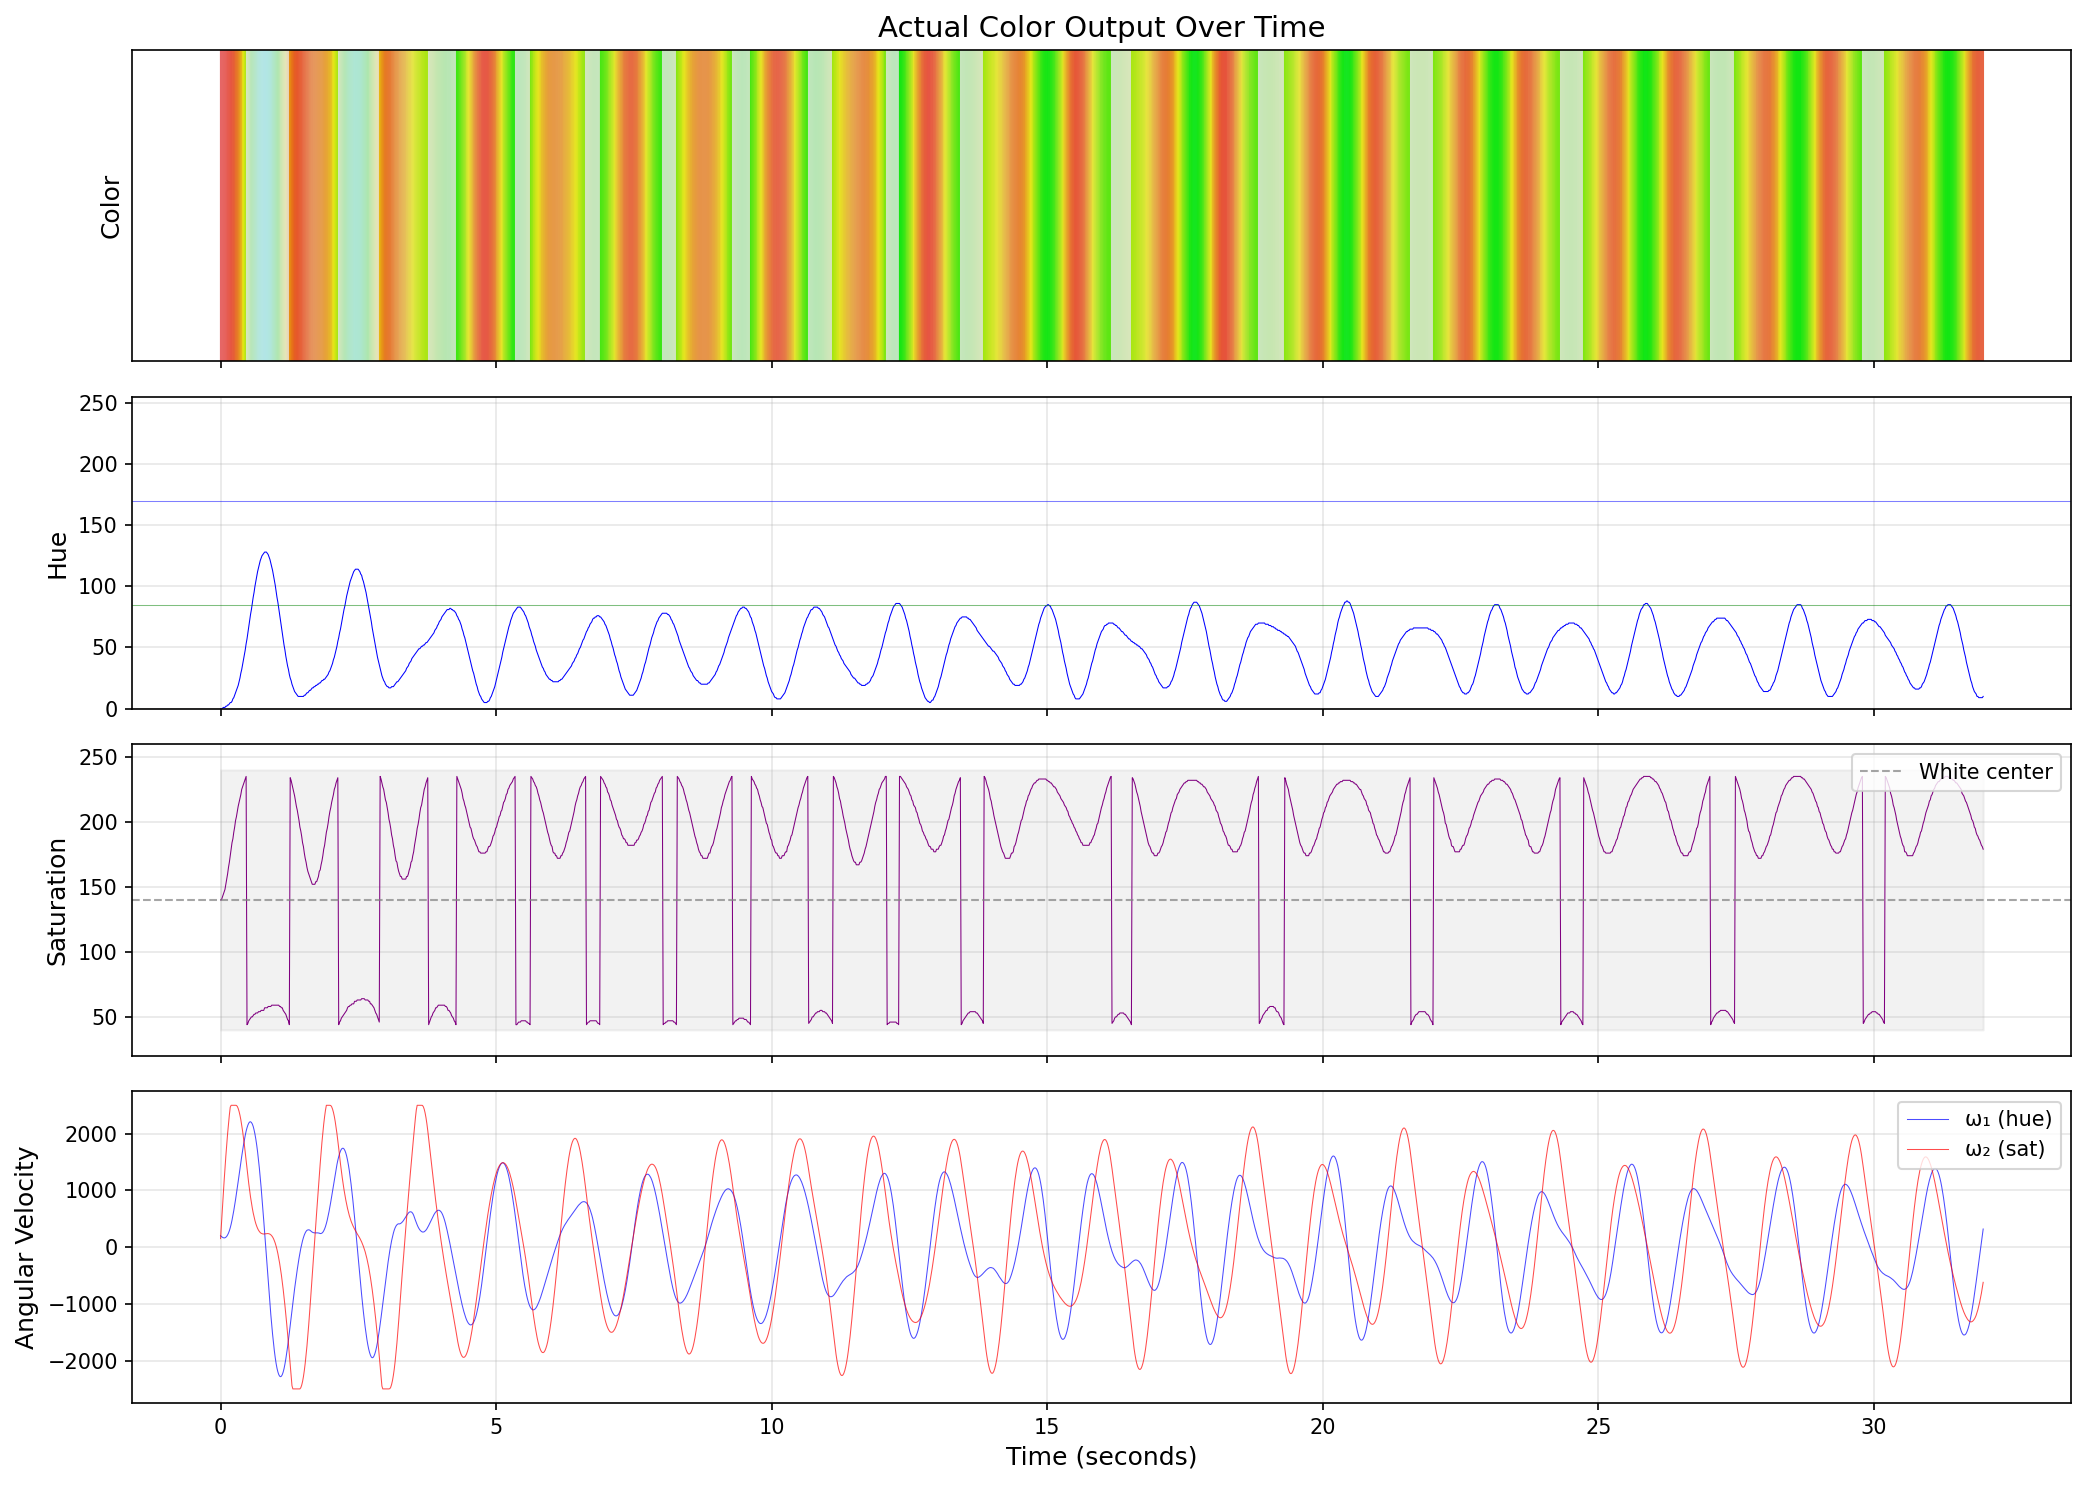
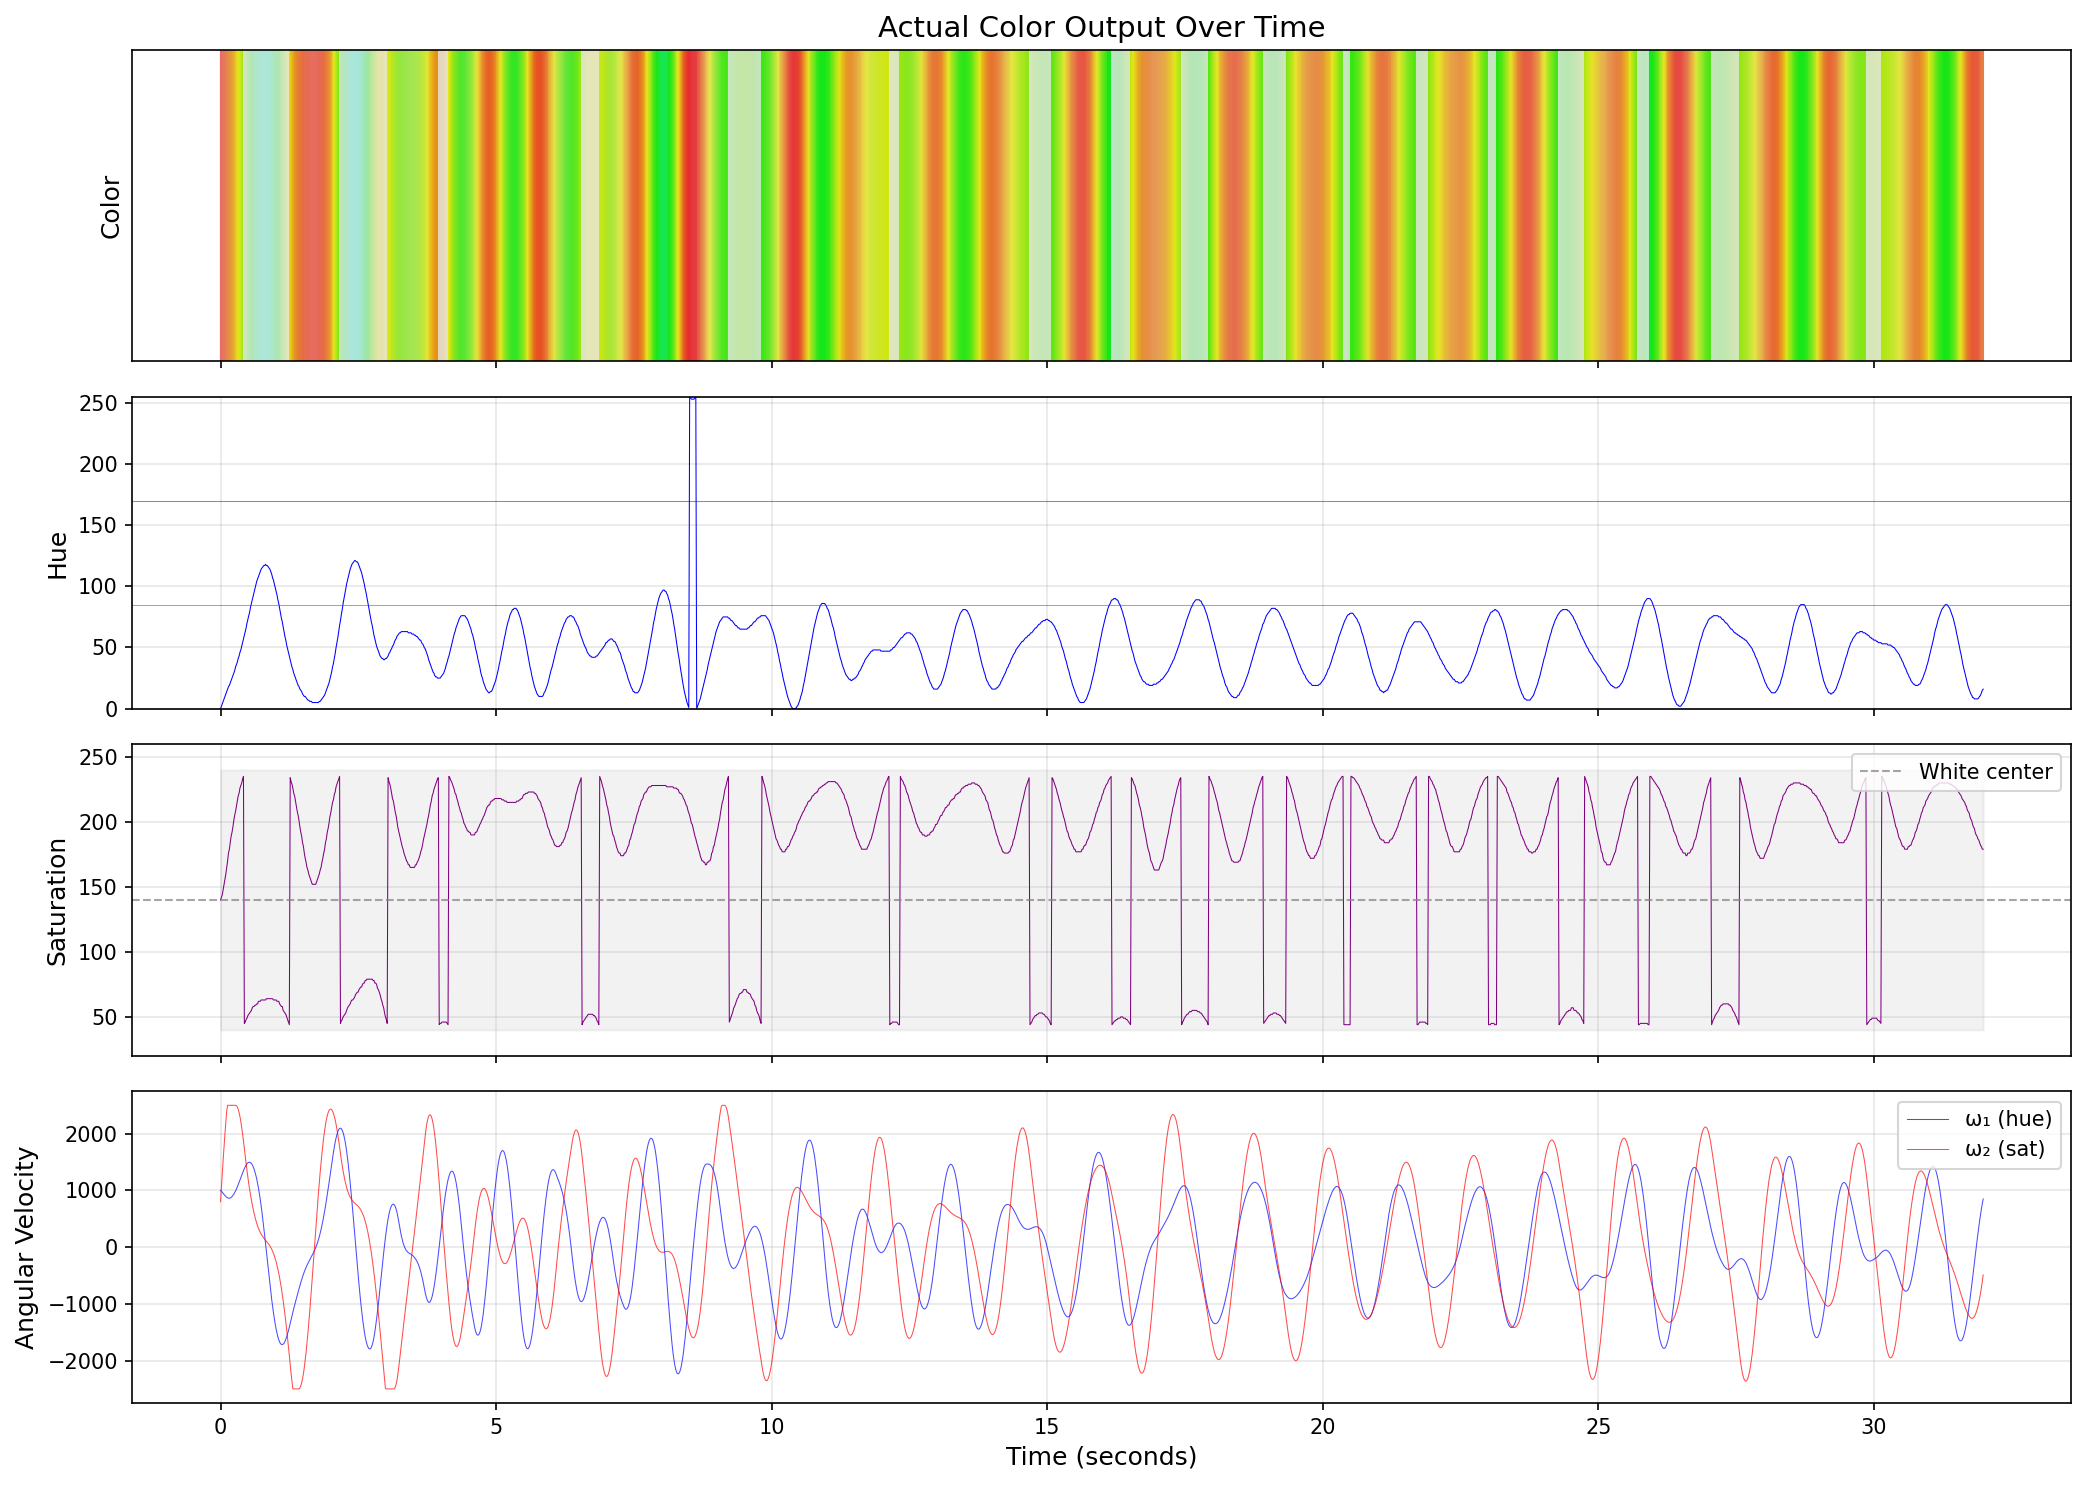
Increase initial velocities for full phase space exploration
The default omega1=200 and omega2=150 caused the system to get trapped
in half the phase space (hue 0-128 only). Increasing to omega1=1000
and omega2=800 ensures the chaotic attractor explores the full hue
range (0-255) from startup.

Regenerated all visualization diagrams showing full color coverage.

diff --git a/hw/hank/emisar-d4k-3ch/hwdef.c b/hw/hank/emisar-d4k-3ch/hwdef.c
@@ -537,9 +537,9 @@ bool gradual_tick_cct(uint8_t gt) {
 
 // State variables for coupled oscillator chaos
 static int16_t chaos_theta1 = 0;      // hue position (scaled, wraps at 65536)
-static int16_t chaos_omega1 = 200;    // hue angular velocity
+static int16_t chaos_omega1 = 1000;   // hue angular velocity (higher for full phase space exploration)
 static int16_t chaos_theta2 = 0;      // saturation oscillator
-static int16_t chaos_omega2 = 150;    // saturation velocity
+static int16_t chaos_omega2 = 800;    // saturation velocity (higher for more dynamic behavior)
 
 // Convert triangle_wave output (0-255) to signed (-128..127)
 static inline int8_t signed_wave(uint8_t phase) {

diff --git a/tools/chaos_simulation.py b/tools/chaos_simulation.py
@@ -114,9 +114,9 @@ def simulate_chaos(n_steps, energy=128, initial_state=None):
     if initial_state is None:
         state = {
             'theta1': 0,
-            'omega1': 200,
+            'omega1': 1000,   # higher for full phase space exploration
             'theta2': 0,
-            'omega2': 150
+            'omega2': 800     # higher for more dynamic behavior
         }
     else:
         state = initial_state.copy()
